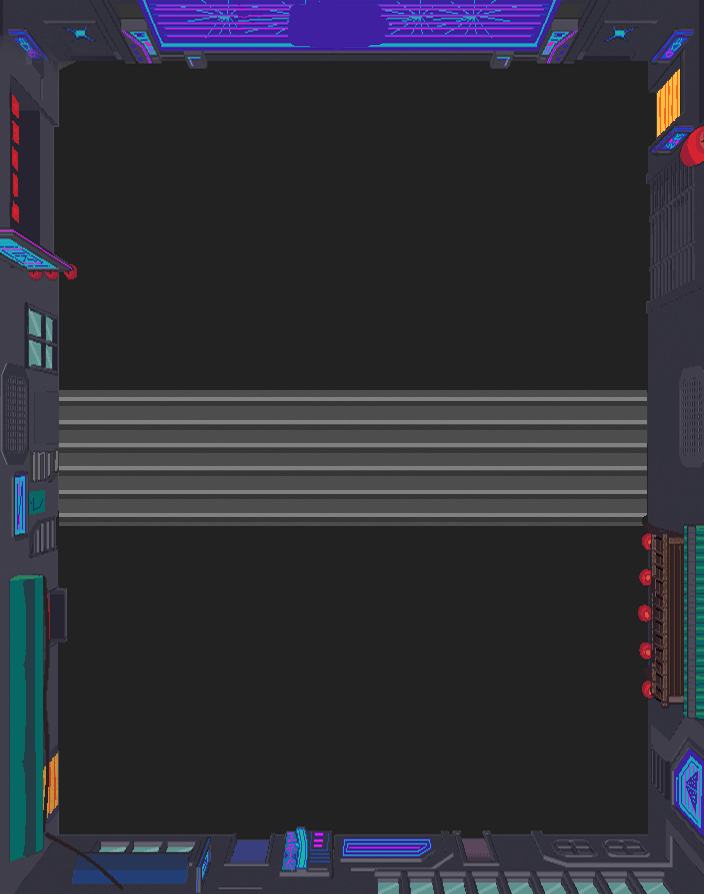
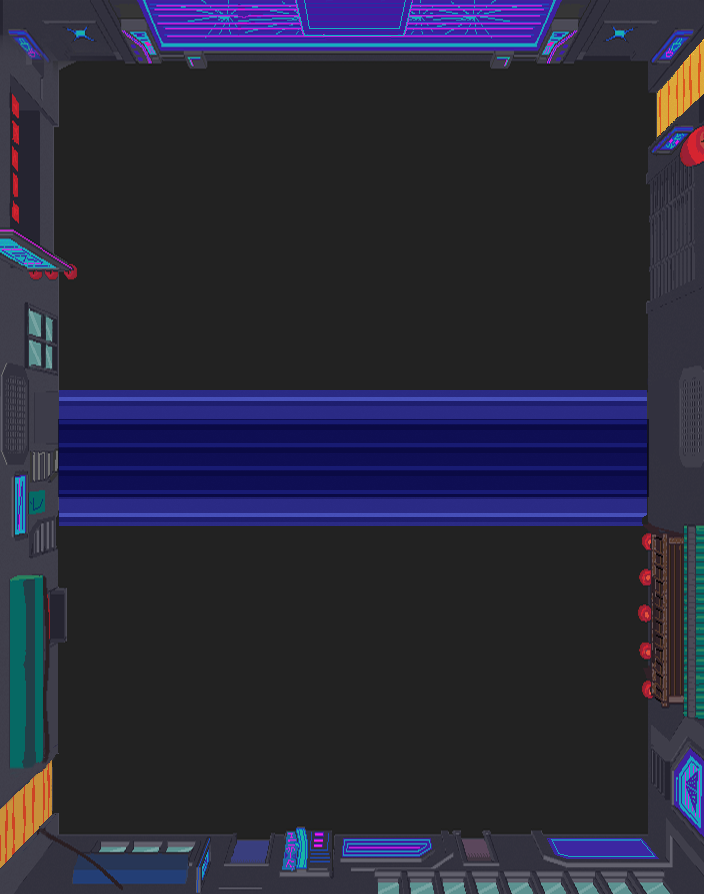
More UI Tweaks

diff --git a/source/Score.js b/source/Score.js
@@ -43,7 +43,7 @@ Centipede.Score.prototype =
 
 		for (var i = 0; i < Centipede.playerLives - 1; i++) {
 
-			this.liveGroup.add(this.game.add.sprite(30 + 40*i, 30, 'player'));
+			this.liveGroup.add(this.game.add.sprite(560 + 14*i, 843, 'playerLife'));
 		}
 	},
 
@@ -54,7 +54,7 @@ Centipede.Score.prototype =
 
 		for (var i = 0; i < Centipede.playerLives - 1; i++) {
 
-			this.liveGroup.add(this.game.add.sprite(30 + 40*i, 30, 'player'));
+			this.liveGroup.add(this.game.add.sprite(560 + 14*i, 843, 'playerLife'));
 		}
 	},
 
@@ -63,7 +63,7 @@ Centipede.Score.prototype =
 		var scoreFont = "30px Onky";
 
 		//Create the score label
-		this.scoreLabel = this.game.add.text(this.game.world.width/2-12, 12, "0", {font: scoreFont, fill: "#BB1BD3", stroke: "#3E20A2", strokeThickness: 5});
+		this.scoreLabel = this.game.add.text(this.game.world.width/2, 0, "0", {font: scoreFont, fill: "#BB1BD3", stroke: "#3E20A2", strokeThickness: 5});
 		this.scoreLabel.anchor.setTo(0.5, 0);
 		this.scoreLabel.align = 'center';
 
@@ -90,7 +90,7 @@ Centipede.Score.prototype =
 	    scoreAnimation.align = 'center';
 	 
 	    //Tween this score label to the total score label
-	    var scoreTween = this.game.add.tween(scoreAnimation).to({x:(this.game.world.width/2)-12, y: 5}, 800, Phaser.Easing.Exponential.In, true);
+	    var scoreTween = this.game.add.tween(scoreAnimation).to({x:(this.game.world.width/2), y: 0}, 800, Phaser.Easing.Exponential.In, true);
 	 
 	    //When the animation finishes, destroy this score label, trigger the total score labels animation and add the score
 	    scoreTween.onComplete.add(function(){

diff --git a/source/GameOver.js b/source/GameOver.js
@@ -12,13 +12,16 @@ Centipede.GameOver.prototype =
 {		
 	create: function () 
 	{
+		this.scale.pageAlignHorizontally = true;
+		this.scale.pageAlignVertically = true;
+
 		this.background = this.add.tileSprite(0, 0, 704, 894, "background");
 		
 		this.enterKey = this.input.keyboard.addKey(Phaser.Keyboard.ENTER);
 
 		var scoreFont = "25px Onky";
 
-		this.scoreLabel = this.game.add.text(this.game.world.width/2, this.game.world.height/2, "0", {font: scoreFont, fill: "#BB1BD3", stroke: "#3E20A2", strokeThickness: 5});
+		this.scoreLabel = this.game.add.text(this.game.world.width/2, this.game.world.height/2+20, "0", {font: scoreFont, fill: "#BB1BD3", stroke: "#3E20A2", strokeThickness: 5});
 		this.scoreLabel.anchor.setTo(0.5, 0.5);
 		this.scoreLabel.align = 'center';
 

diff --git a/source/Enemy.js b/source/Enemy.js
@@ -201,7 +201,7 @@ Centipede.Enemy.prototype =
 
 			if (this.goalDirection == Phaser.DOWN)
 			{
-        		if (this.marker.y == 11)
+        		if (this.marker.y == 11 || this.marker.y == 15)
         			this.aggresive = true;
 
         		else 
@@ -234,7 +234,7 @@ Centipede.Enemy.prototype =
 			}
 			else if (this.goalDirection == Phaser.UP)
 			{				
-        		if (this.marker.y == 17)
+        		if (this.marker.y == 17 || this.marker.y == 13)
         			this.aggresive = true;
 
         		else

diff --git a/index.html b/index.html
@@ -3,10 +3,16 @@
 <head> 
 	<meta charset="UTF-8" />
     <title>Cyberpede</title>
+	<body bgcolor="#000000">
+	</body>
 	<script type="text/javascript" src="engine/phaser.js"></script>
     <style type="text/css">
         body {
             margin: 0;
+            background-image: url("assets/cabinet.jpg");
+    		background-repeat: no-repeat;
+    		background-attachment: fixed;
+    		background-position: 55% 50%; 
         }
     </style>
 </head>

diff --git a/source/Preloader.js b/source/Preloader.js
@@ -33,7 +33,7 @@ Centipede.Preloader.prototype =
 
 		this.load.image("background", "assets/background.png");
 
-		this.load.image("splashscreen", "assets/splashscreen.png");
+		this.load.image("playerLife", "assets/playerLife.png");
 		
 		this.load.audio('hit', 'assets/Sounds/Old/hit.wav');
 		this.load.audio('hit1', 'assets/Sounds/Old/hit1.wav');

diff --git a/source/Splashscreen.js b/source/Splashscreen.js
@@ -9,6 +9,9 @@ Centipede.Splashscreen.prototype =
 {		
 	create: function () 
 	{
+		this.scale.pageAlignHorizontally = true;
+		this.scale.pageAlignVertically = true;
+
 		this.background = this.add.tileSprite(0, 0, 704, 894, "splashscreen");
 		
 		this.enterKey = this.input.keyboard.addKey(Phaser.Keyboard.ENTER);

diff --git a/source/Game.js b/source/Game.js
@@ -152,6 +152,9 @@ Centipede.Game.prototype =
 	
 	create: function () 
 	{
+		this.scale.pageAlignHorizontally = true;
+		this.scale.pageAlignVertically = true;
+
 		this.background = this.add.tileSprite(0, 0, 704, 894, "background");
 
 		this.sound = new Centipede.Sound(this.game);

diff --git a/source/Boot.js b/source/Boot.js
@@ -8,7 +8,7 @@ Centipede.count = 0;
 
 Centipede.score = 0;
 
-Centipede.playerLives = 3;
+Centipede.playerLives = 5;
 Centipede.playerUpdate = false;
 
 Centipede.spriteSize = 32;
